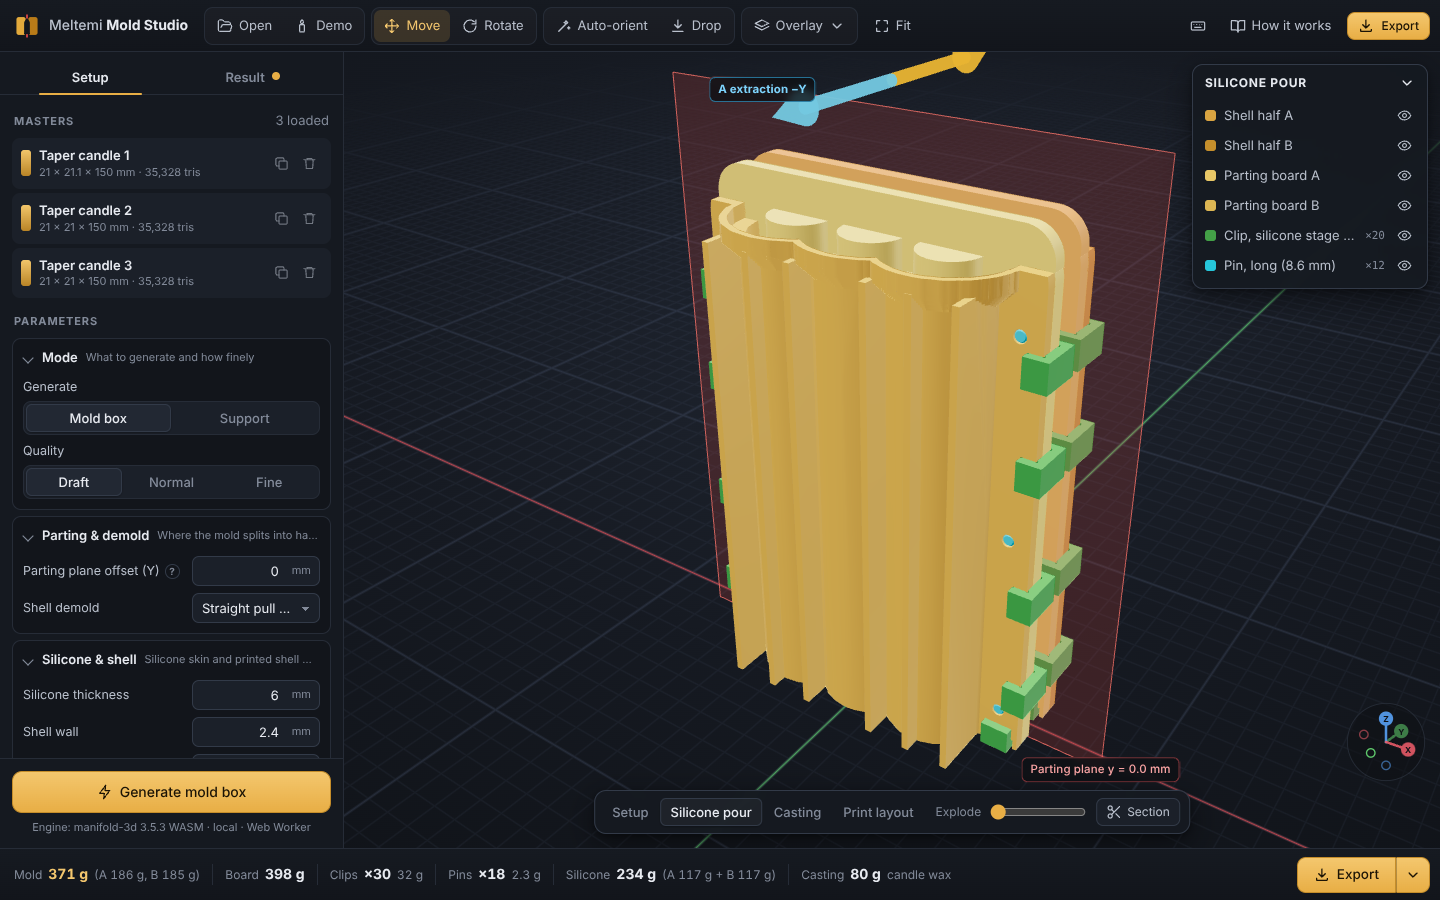
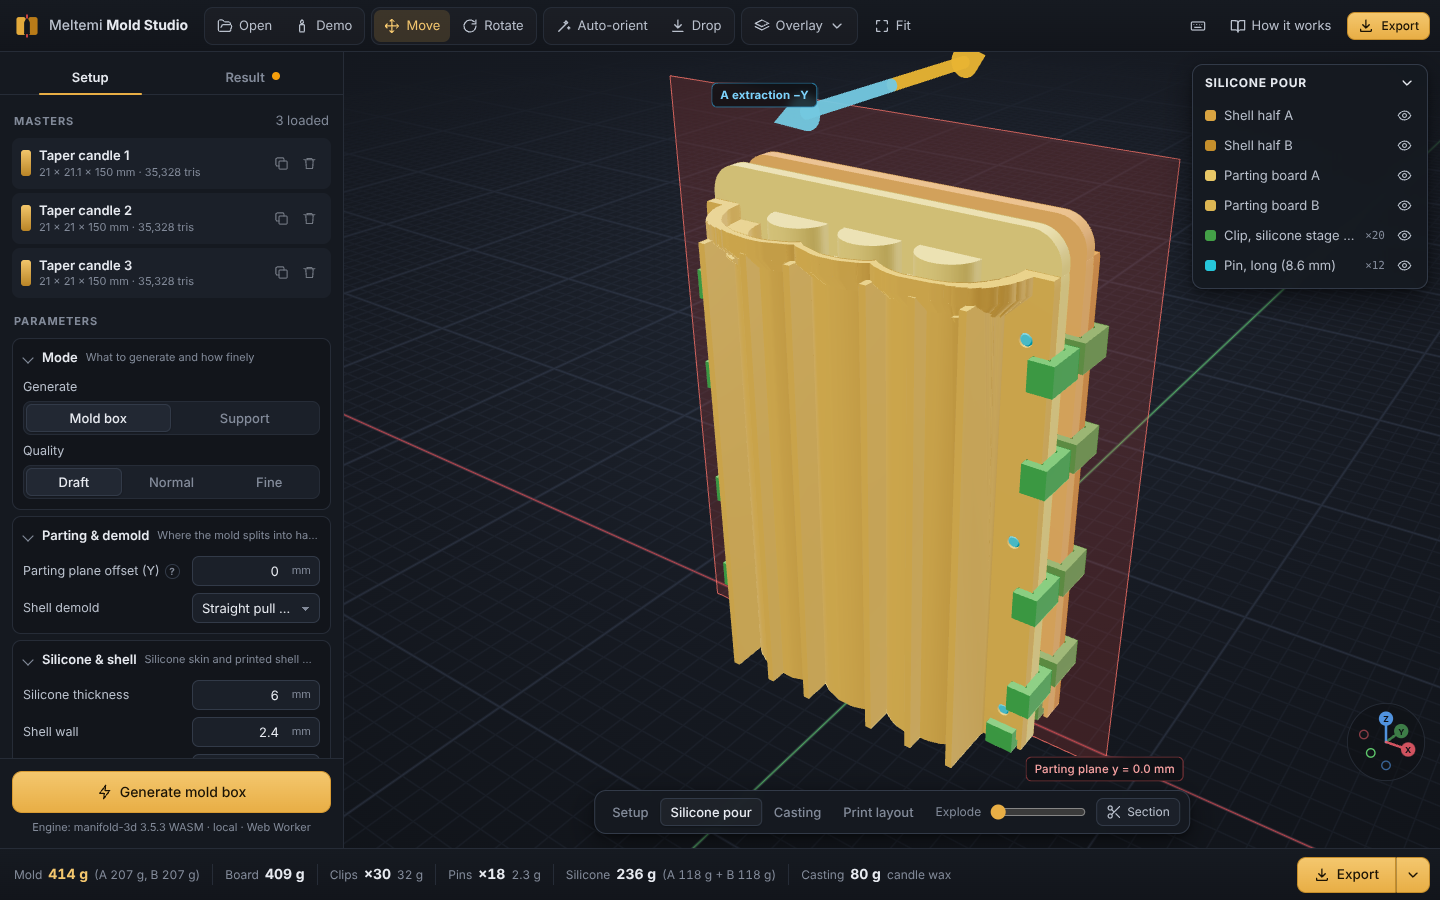
Collar ledge in 0.5 mm steps; broader end walls (±X)
- Collar ledge steps halved to 0.5 mm (still 45°, finer overhangs per layer).
- New params endWallExtra (default 2.4 mm, i.e. end walls = 2 x wall) and endWallBlend
  (12 mm): the shell wall thickens towards the left/right ends of the mold, where the end
  flanges, pins and clips load it, tapering in linearly so the side faces stay smooth.
  Applied in the outer distance field (x-only, commutes with the straight-pull and plinth
  sweeps); the collar dam and its ledge get the same tapered extra, and the flange plate
  still backs the thicker dam at the parting plane.
- Test: end walls measured behind the flange plate grow by endWallExtra; 0 restores them.

Claude-Session: https://claude.ai/code/session_013kicrp2LhKyAkaTDMgHmeQ

diff --git a/src/core/features/collar.js b/src/core/features/collar.js
@@ -7,7 +7,7 @@
 //
 // To cast it, each shell half gets
 //   * a dam: a wall of thickness wallThickness around the collar outline (zTop .. zPour), and
-//   * a ledge under the overhang: 1 mm steps at 45° below the rim, so the dam prints upright
+//   * a ledge under the overhang: 0.5 mm steps at 45° below the rim, so the dam prints upright
 //     without supports.
 // Both are straight-pull demoldable: the collar outline is y-monotone on each side of the
 // parting plane (it is a round offset of the straight-pull shell's top section).
@@ -16,7 +16,7 @@
 import { mf } from '../wasm.js';
 import { trimSide } from '../frame.js';
 
-const STEP = 1; // ledge step (mm): 1 mm out per 1 mm down = 45°
+const STEP = 0.5; // ledge step (mm): 0.5 mm out per 0.5 mm down = 45°, finer steps print cleaner
 const E = 0.01;
 
 /**
@@ -49,21 +49,43 @@ export function buildCollarFrame(ctx, side) {
   if (!c) return null;
   const wd = P.wallThickness;
   const o = Math.max(0, Number(P.collarOverhang) || 0);
+  const e = Math.max(0, Number(P.endWallExtra) || 0);
+  const L = Number(P.endWallBlend) || 12;
+  const ends = e > 0 ? endStrips(c.collar, L) : null;
+  // tapered extra at the ±X ends: TAPER bands, the outermost (shortest) one gets the full e
+  const TAPER = 4;
+  const bands = e > 0 ? Array.from({ length: TAPER }, (_, j) => ({ add: (e * (j + 1)) / TAPER, strip: endStrips(c.collar, L * (1 - j / TAPER)) })) : [];
+  // region within `r` of `base`, plus up to `e` more towards the ±X ends (broader end walls)
+  const grow = (base, r) => {
+    let g = base.offset(r, 'Round', 2, 64);
+    for (const bd of bands) g = g.add(base.offset(r + bd.add, 'Round', 2, 64).intersect(bd.strip));
+    return g;
+  };
   const parts = [];
   // dam around the collar
-  const dam2D = c.collar.offset(wd, 'Round', 2, 64).subtract(c.collar);
+  const dam2D = grow(c.collar, wd).subtract(c.collar);
   parts.push(dam2D.extrude(zPour - zTop + E).translate([0, 0, zTop - E]));
   // 45° ledge: step k spans z in [zTop - (k+1) s, zTop - k s] and reaches (o + wd - k s) out
+  // (+ e at the ends, with as many extra steps as that needs)
   const reach = o + wd;
-  const n = Math.ceil(reach / STEP);
+  const n = Math.ceil((reach + e) / STEP);
   for (let k = 0; k < n; k++) {
     const r = reach - k * STEP;
-    if (!(r > 0)) break;
-    const ring = c.top.offset(r, 'Round', 2, 64);
+    const ring = r > 0 ? grow(c.top, r) : ends && r + e > 0 ? c.top.offset(r + e, 'Round', 2, 64).intersect(ends) : null;
+    if (!ring || ring.isEmpty()) break;
     parts.push(ring.extrude(STEP + E).translate([0, 0, zTop - (k + 1) * STEP]));
   }
   const frame = trimSide(Manifold.union(parts), side, y0);
   return frame.isEmpty() ? null : frame;
+}
+
+/** Strips (top view) of length L at both X-ends of `cs`, extended far outward. */
+function endStrips(cs, L) {
+  const { CrossSection } = mf();
+  const b = cs.bounds();
+  const big = 1e4;
+  const sq = (x0, x1) => CrossSection.square([x1 - x0, 2 * big]).translate([x0, -big]);
+  return sq(b.min[0] - big, b.min[0] + L).add(sq(b.max[0] - L, b.max[0] + big));
 }
 
 /** The collar's own volume (zTop .. zPour + 1 inside the outline): kept free of shell material. */

diff --git a/src/core/features/shell.js b/src/core/features/shell.js
@@ -29,7 +29,7 @@ export const CAV_LEVEL = 0.3;
  */
 export function shellGrid(min, max, P, { d1 = P.siliconeThickness, extra = 0 } = {}) {
   const q = P.q || { maxVoxels: 4e6, minVoxel: 0.4 };
-  const base = d1 + extra + P.wallThickness + (P.baseExtra || 0);
+  const base = d1 + extra + P.wallThickness + Math.max(0, Number(P.endWallExtra) || 0) + (P.baseExtra || 0);
   let h = q.minVoxel;
   let grid = null;
   for (let it = 0; it < 6; it++) {
@@ -77,15 +77,37 @@ export function buildShellFields(Msdf, P, y0, opts = {}) {
     phiCavA = sweepMin(phi, grid, 1, +1);
     phiCavB = sweepMin(phi, grid, 1, -1);
   }
+  // Wall thickness per voxel column: w, plus endWallExtra at the ±X ends of the silicone
+  // envelope, tapering linearly to 0 over endWallBlend (x-only, so it commutes with the sweeps).
+  const wallX = endWallProfile(Msdf, P, d1, grid, w);
   const outer = (cav) => {
     const out = new Float32Array(cav.length);
-    for (let v = 0; v < cav.length; v++) out[v] = cav[v] - w;
+    const nx = grid.nx;
+    for (let v = 0; v < cav.length; v++) out[v] = cav[v] - wallX[v % nx];
     if (P.base !== 'none') zSuffixMinInPlace(out, grid);
     return out;
   };
   const phiOutA = outer(phiCavA);
   const phiOutB = phiCavB === phiCavA ? phiOutA : outer(phiCavB);
   return { grid, phiCavA, phiCavB, phiOutA, phiOutB, d1 };
+}
+
+/**
+ * Wall thickness for each grid column index i: w + e * clamp(1 - dx / L, 0, 1), where dx is
+ * the distance of x from the nearer X-extreme of the silicone envelope (bbox of Msdf ± d1).
+ */
+export function endWallProfile(Msdf, P, d1, grid, w) {
+  const e = Math.max(0, Number(P.endWallExtra) || 0);
+  const L = Math.max(1e-6, Number(P.endWallBlend) || 12);
+  const bb = Msdf.boundingBox();
+  const x0 = bb.min[0] - d1, x1 = bb.max[0] + d1;
+  const out = new Float64Array(grid.nx);
+  for (let i = 0; i < grid.nx; i++) {
+    const x = grid.origin[0] + grid.h * i;
+    const dx = Math.min(x - x0, x1 - x);
+    out[i] = w + e * Math.min(1, Math.max(0, 1 - dx / L));
+  }
+  return out;
 }
 
 /** In-place running minimum along -Z: out[k] = min(out[k..nz-1]) (plinth sweep). */

diff --git a/src/core/params.js b/src/core/params.js
@@ -38,6 +38,8 @@ export const PARAM_SCHEMA = [
       { key: 'collar', label: 'Silicone collar at the pour end', type: 'boolean', help: 'A silicone lip over the shell rim (kołnierz): the skin hangs from it in the support, and it seals the pour face' },
       { key: 'collarHeight', label: 'Collar height', type: 'number', min: 2, max: 20, step: 0.5, unit: 'mm' },
       { key: 'collarOverhang', label: 'Collar beyond shell wall', type: 'number', min: 0, max: 15, step: 0.5, unit: 'mm', help: 'How far the lip reaches past the shell outer wall (the dam stands outside it)' },
+      { key: 'endWallExtra', label: 'Extra end-wall thickness (±X)', type: 'number', min: 0, max: 10, step: 0.2, unit: 'mm', help: 'Added to the shell wall (and collar dam) at the left/right ends, where the end flanges, pins and clips load the mold' },
+      { key: 'endWallBlend', label: 'End-wall blend length', type: 'number', min: 1, max: 60, step: 1, unit: 'mm', help: 'Over this distance from each end the extra thickness tapers in, so the side faces stay smooth' },
       { key: 'base', label: 'Base', type: 'select', options: { plinth: 'Flat printable plinth', none: 'Conformal bottom' } },
       { key: 'baseExtra', label: 'Extra floor', type: 'number', min: 0, max: 20, step: 0.5, unit: 'mm' },
       { key: 'cageClearance', label: 'Support clearance', type: 'number', min: 0, max: 3, step: 0.05, unit: 'mm', help: 'Gap between an existing form and its support (mode B / cage)' },
@@ -117,6 +119,8 @@ export const DEFAULTS = {
   collar: true,
   collarHeight: 5,
   collarOverhang: 3,
+  endWallExtra: 2.4, // end walls (±X) = 2 x wallThickness by default
+  endWallBlend: 12,
   cageClearance: 0.5,
   flangeWidth: 14,
   flangeThickness: 4,

diff --git a/src/core/features/flanges.js b/src/core/features/flanges.js
@@ -141,7 +141,7 @@ export function buildFlangeGeometry(ctx) {
   // narrow flange, a tall collar or a wide overhang the pocket would be open there: add the dam's
   // footprint on the plane (+2 mm) to the flange outline (a no-op when F already covers it).
   if (ctx.collar2D && ctx.zPour > zTop) {
-    const wd = Number(P.wallThickness) || 0;
+    const wd = (Number(P.wallThickness) || 0) + Math.max(0, Number(P.endWallExtra) || 0); // dam incl. broader ends
     const strip = ctx.collar2D.collar.offset(wd, 'Round', 2, 64)
       .intersect(CrossSection.square([2 * BIG, 0.02]).translate([-BIG, y0 - 0.01]));
     if (!strip.isEmpty()) {
